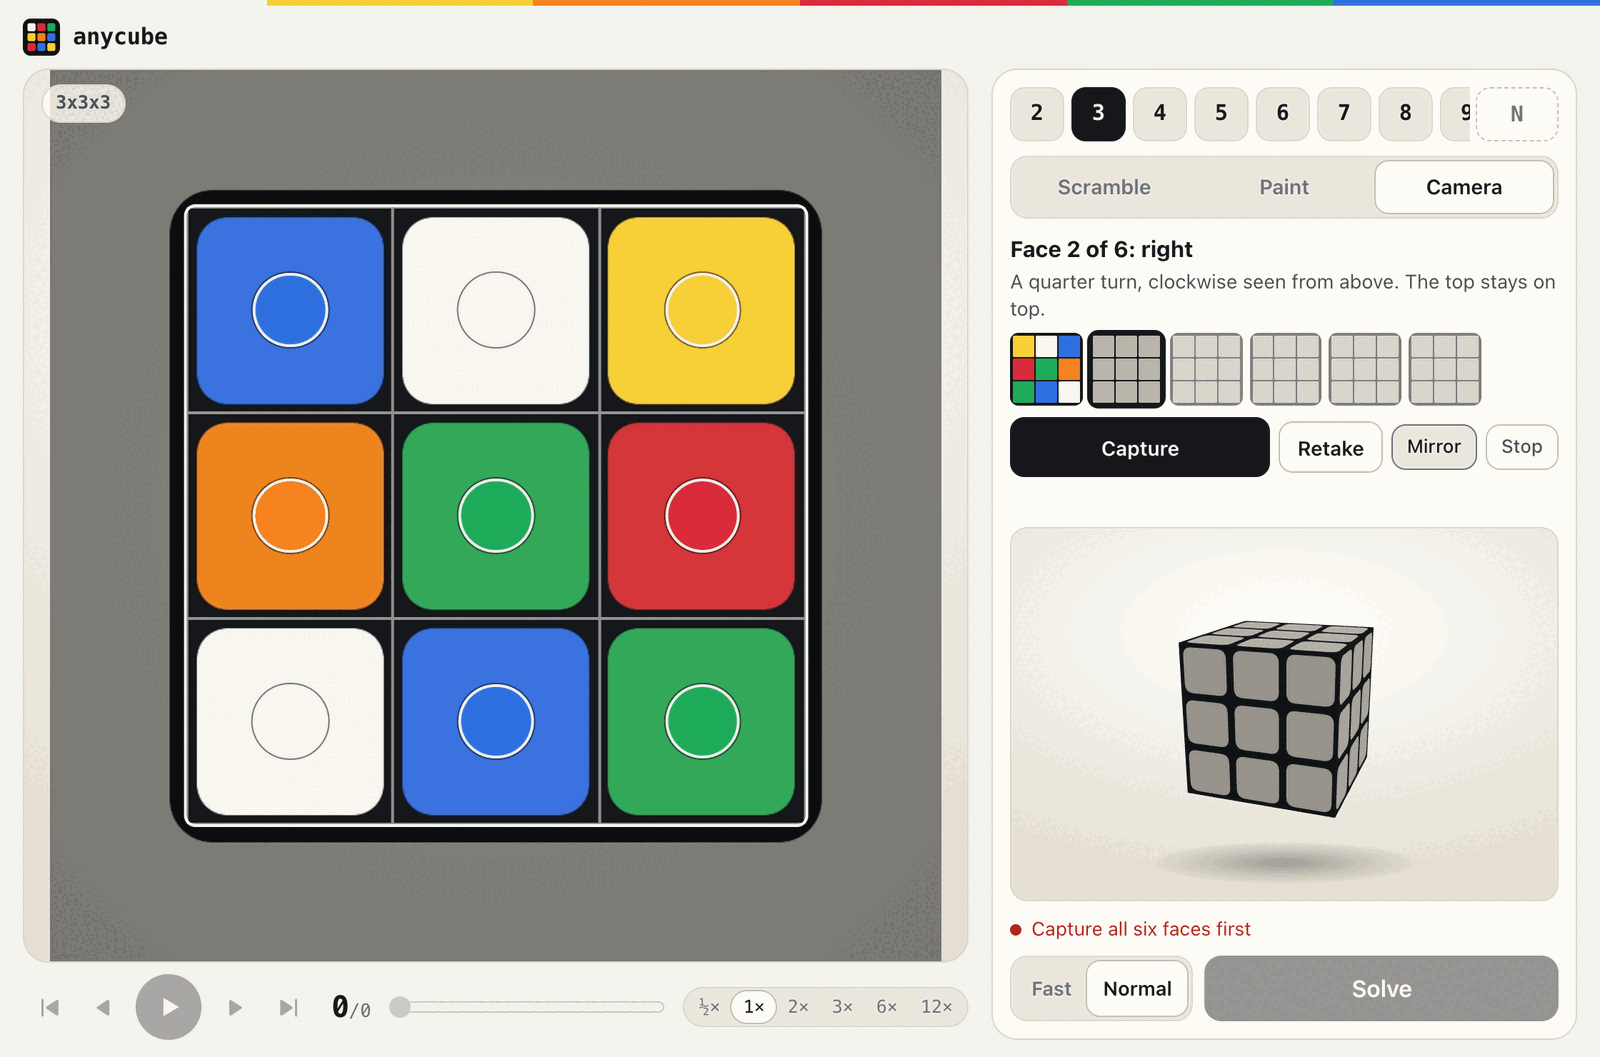
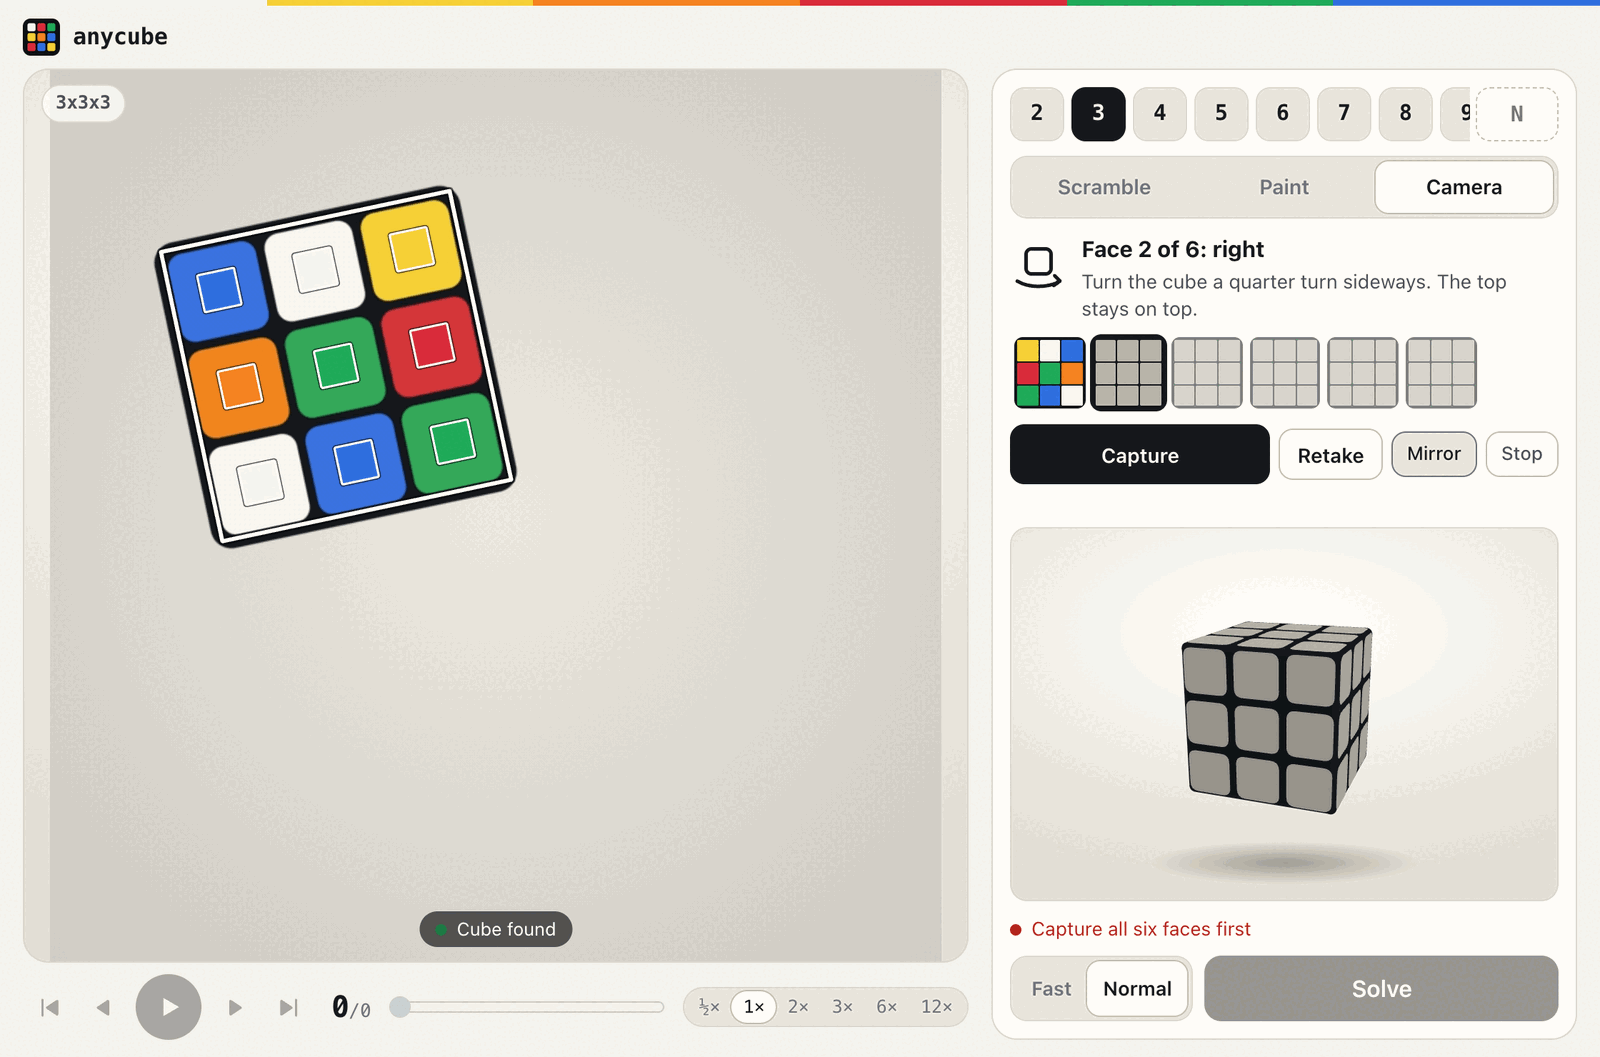
The pictures show the interface as it is now
The scramble's box and its i, each phase on its own row, an arrow on
each row that turns; the camera's picture with a face found in it.

diff --git a/app/README.md b/app/README.md
@@ -19,7 +19,7 @@ Or hold it up to a camera, a face at a time (the picture never leaves the
 computer; this one is a drawing of a face, not a camera's):
 
 <p align="center">
-  <img src="../docs/interface-camera.png" width="800" alt="Camera: the first face of a 3x3x3 read, the second to come">
+  <img src="../docs/interface-camera.png" width="800" alt="Camera: a face of a 3x3x3 found in the picture, off to one side and tilted, with the colours read marked on it">
 </p>
 
 | Path | What it is |
